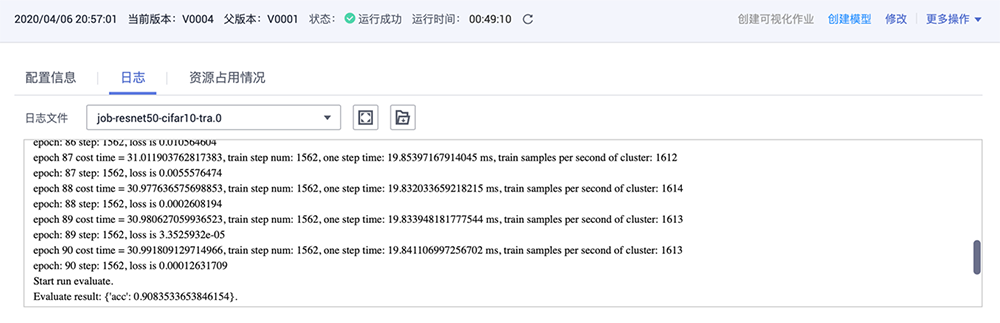
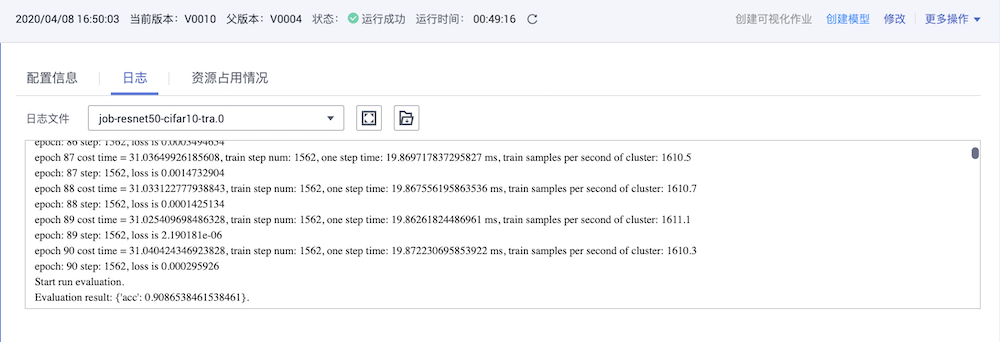
modify use on the cloud

diff --git a/tutorials/tutorial_code/sample_for_cloud/resnet50_train.py b/tutorials/tutorial_code/sample_for_cloud/resnet50_train.py
@@ -57,7 +57,7 @@ class PerformanceCallback(Callback):
         train_steps = params.cur_step_num -self.last_step
         print(f'epoch {params.cur_epoch_num} cost time = {cost_time}, train step num: {train_steps}, '
               f'one step time: {1000*cost_time/train_steps} ms, '
-              f'train samples per second of cluster: {device_num*train_steps*self.batch_size/cost_time:.0f}')
+              f'train samples per second of cluster: {device_num*train_steps*self.batch_size/cost_time:.1f}\n')
         self.last_step = run_context.original_args().cur_step_num
 
 
